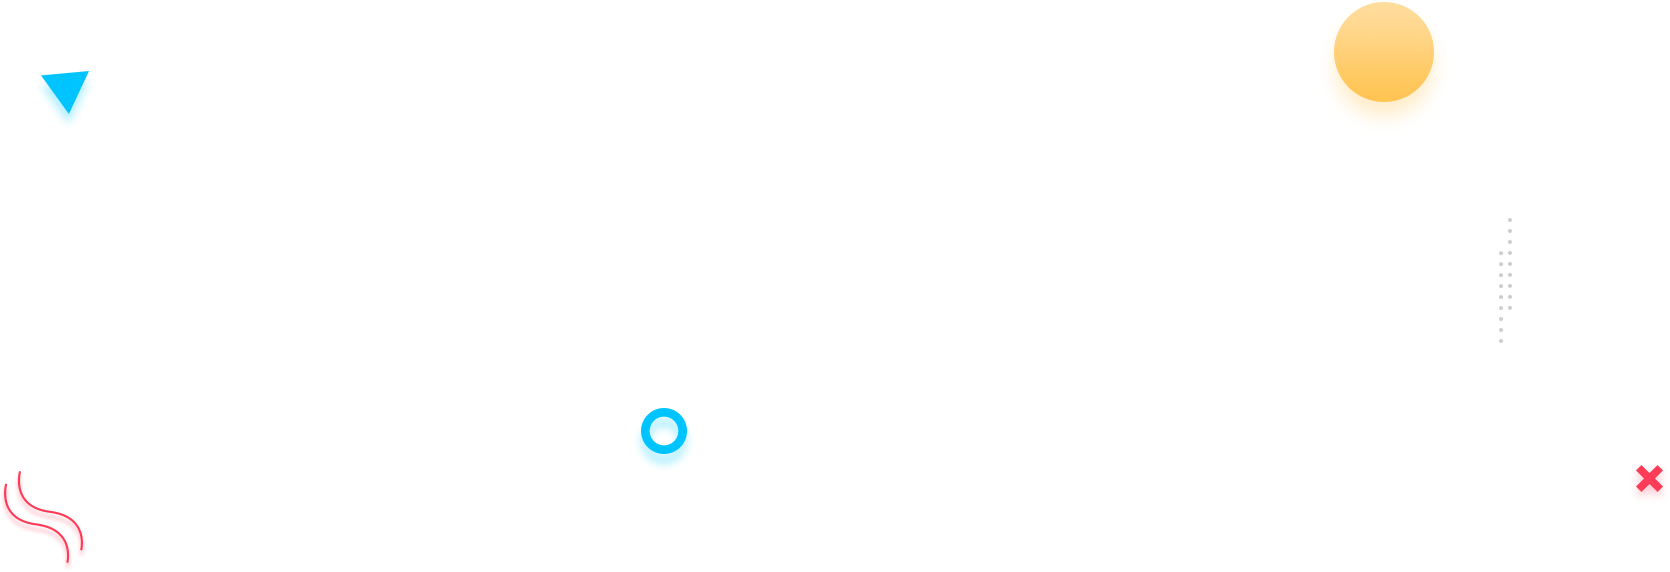
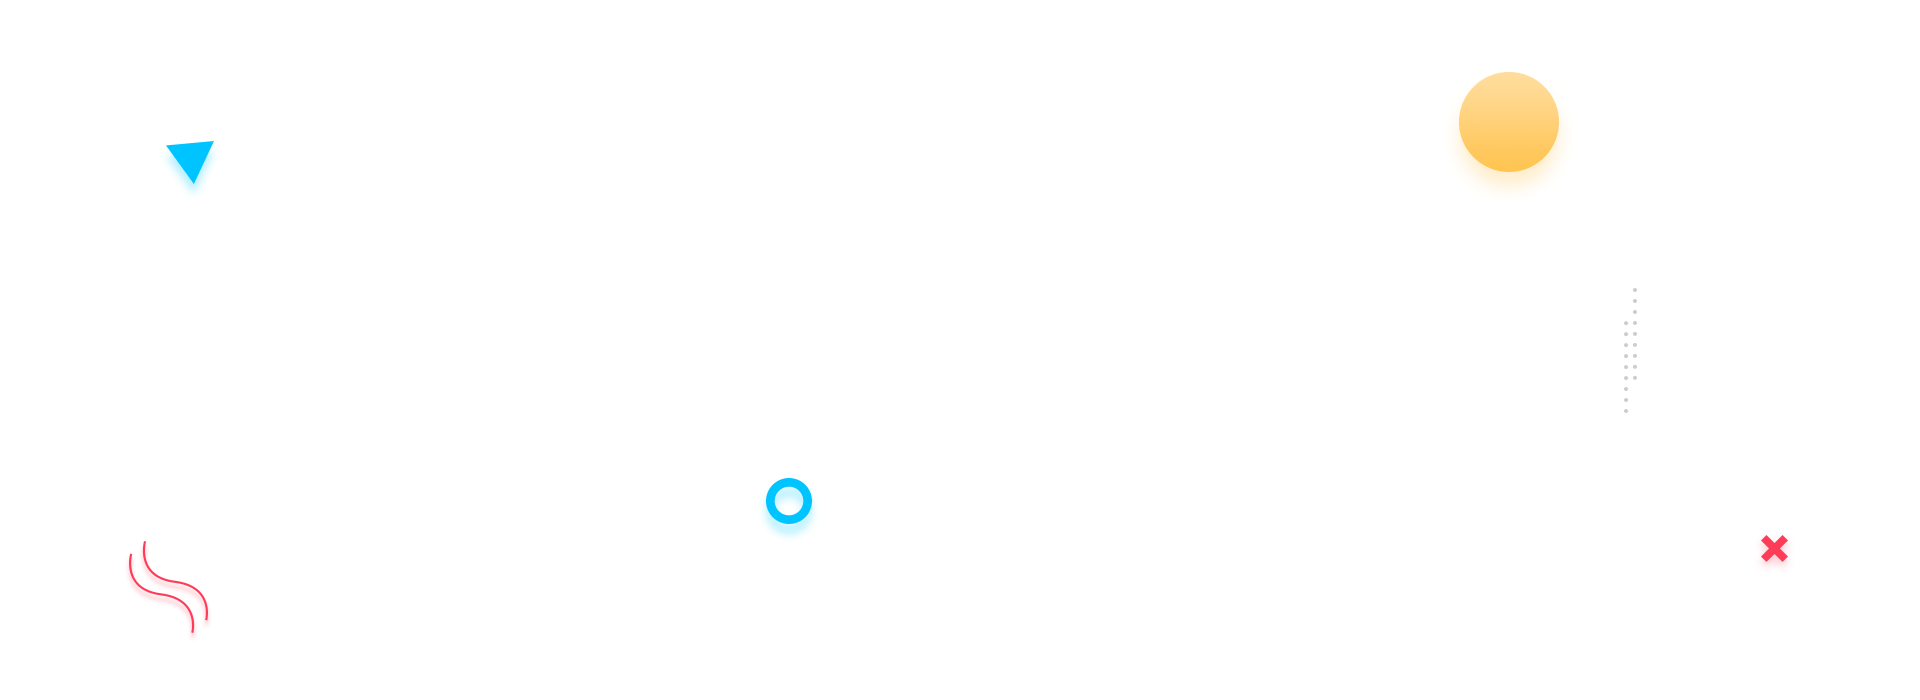
added fix

diff --git a/app/scss/style.scss b/app/scss/style.scss
@@ -161,7 +161,7 @@
 .top-slider{
   background-image: url(../images/top-slider-bg.png);
   background-repeat: no-repeat;
-  background-size: cover;
+  background-position: center center;
   background-color: $bg;
   padding: 65px 0 45px;
   &__container{
@@ -232,6 +232,8 @@
     }
   }
 }
+
+
 
 
 
